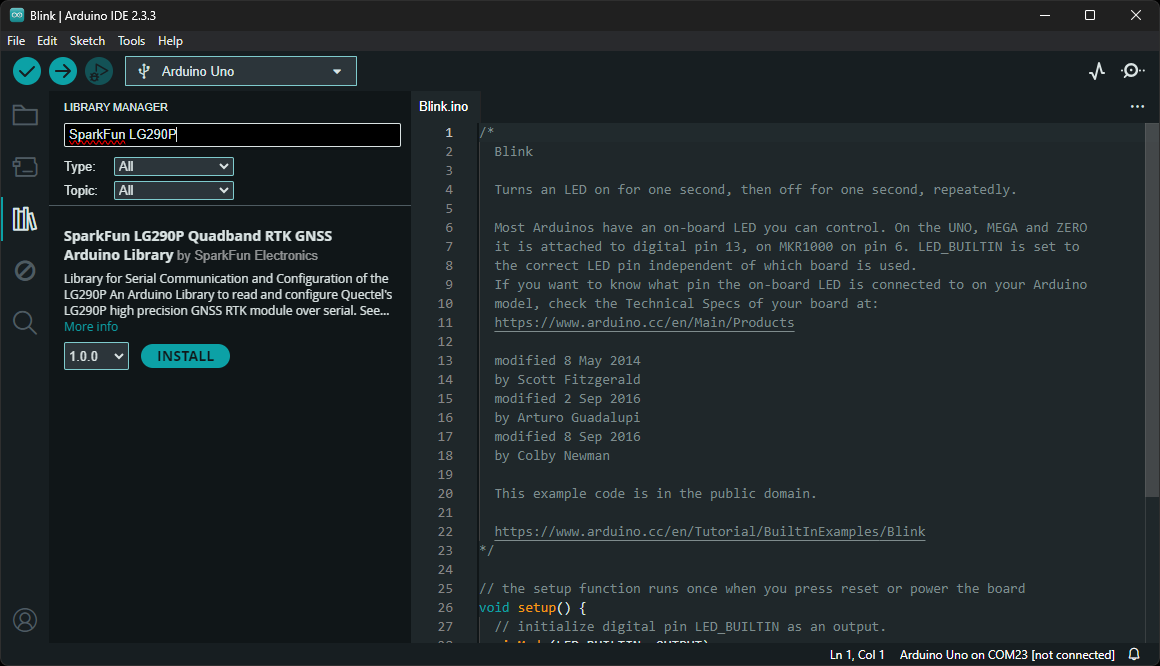
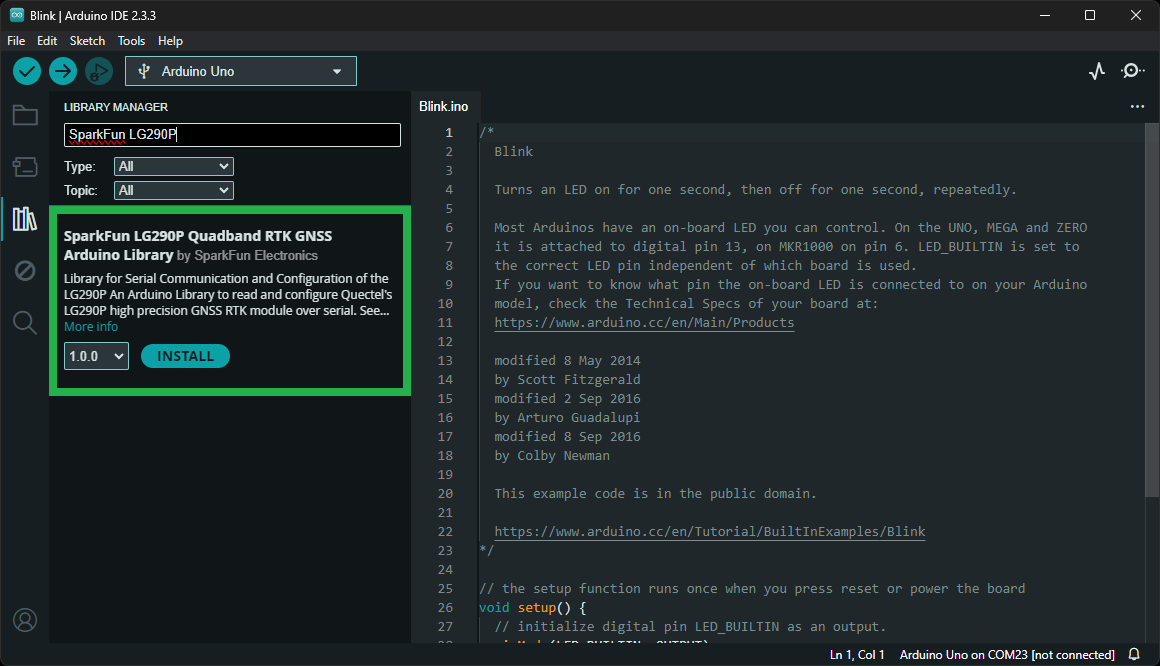
Update docs
Added tips for GNSS antenna use
Clarified voltage injection information
Updated arduino_library.png image

Changed region(s): [[0.031, 0.3003, 0.3724, 0.6006]]

diff --git a/flex_boards/SparkPNT_GNSS_Flex_Module_LG290P/docs/hardware_overview.md b/flex_boards/SparkPNT_GNSS_Flex_Module_LG290P/docs/hardware_overview.md
@@ -666,7 +666,7 @@ Users will need to connect a compatible GNSS antenna to the `Antenna L1/L2/L5/E6
 - Passive antennas are not recommended for the LG290P GNSS module.
 - To mitigate the impact of out-of-band signals, utilize an active antenna whose SAW filter is placed in front of the LNA in the internal framework.
 	- **DO NOT** select an antenna with the LNA placed in the front.
-- There is no need to inject an external DC voltage into the SMA connector for the GNSS antenna. Power is already provided from the LG290P module for the LNA of an active antenna.
+- There is no need to inject an external DC voltage for the GNSS antenna. Power is already provided from the LG290P module for the LNA of an active antenna.
 
 
 <figure markdown>

diff --git a/flex_boards/SparkPNT_GNSS_Flex_Module_LG290P/docs/hardware_assembly.md b/flex_boards/SparkPNT_GNSS_Flex_Module_LG290P/docs/hardware_assembly.md
@@ -13,6 +13,10 @@ GNSS antennas are connected to the U.FL connector on the GNSS Flex board. For st
 </figure>
 
 
+!!! tip
+	For the best performance, we recommend users choose a compatible L1/L2/L5/L6 GNSS antenna and utilize a low-loss cable. Also, don't forget that GNSS signals are fairly weak and can't penetrate buildings or dense vegetation. The GNSS antenna should have an unobstructed view of the sky.
+
+
 
 ## GNSS Flex Headers
 SparkPNT GNSS Flex modules are *plug-in boards* featuring different GNSS receivers. They are designed to be easily swapped for repairs and pin-compatible for upgrades. The boards come populated with two 2x10 pin, 2mm pitch female headers for connecting to *carrier boards*.

diff --git a/flex_boards/SparkPNT_GNSS_Flex_Module_mosaic-X5/docs/hardware_assembly.md b/flex_boards/SparkPNT_GNSS_Flex_Module_mosaic-X5/docs/hardware_assembly.md
@@ -61,6 +61,10 @@ GNSS antennas are connected to the U.FL connector on the GNSS Flex board. For st
 </figure>
 
 
+!!! tip
+	For the best performance, we recommend users choose a compatible L1/L2/L5/L6 GNSS antenna and utilize a low-loss cable. Also, don't forget that GNSS signals are fairly weak and can't penetrate buildings or dense vegetation. The GNSS antenna should have an unobstructed view of the sky.
+
+
 
 ## GNSS Flex Headers
 SparkPNT GNSS Flex modules are *plug-in boards* featuring different GNSS receivers. They are designed to be easily swapped for repairs and pin-compatible for upgrades. The boards come populated with two 2x10 pin, 2mm pitch female headers for connecting to *carrier boards*.
